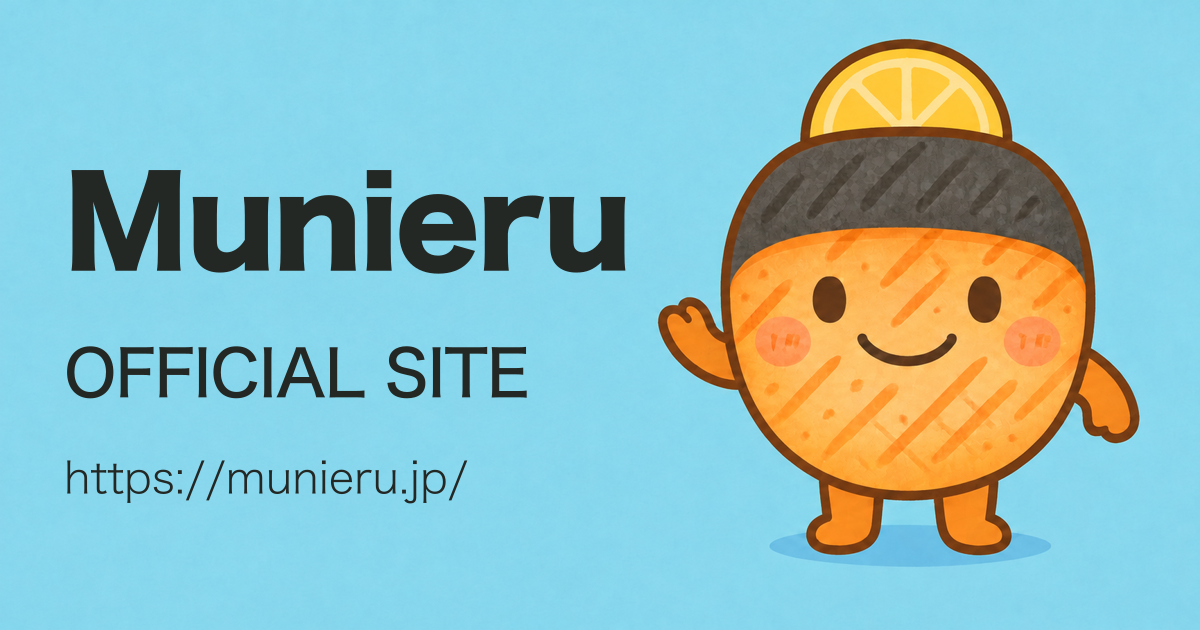
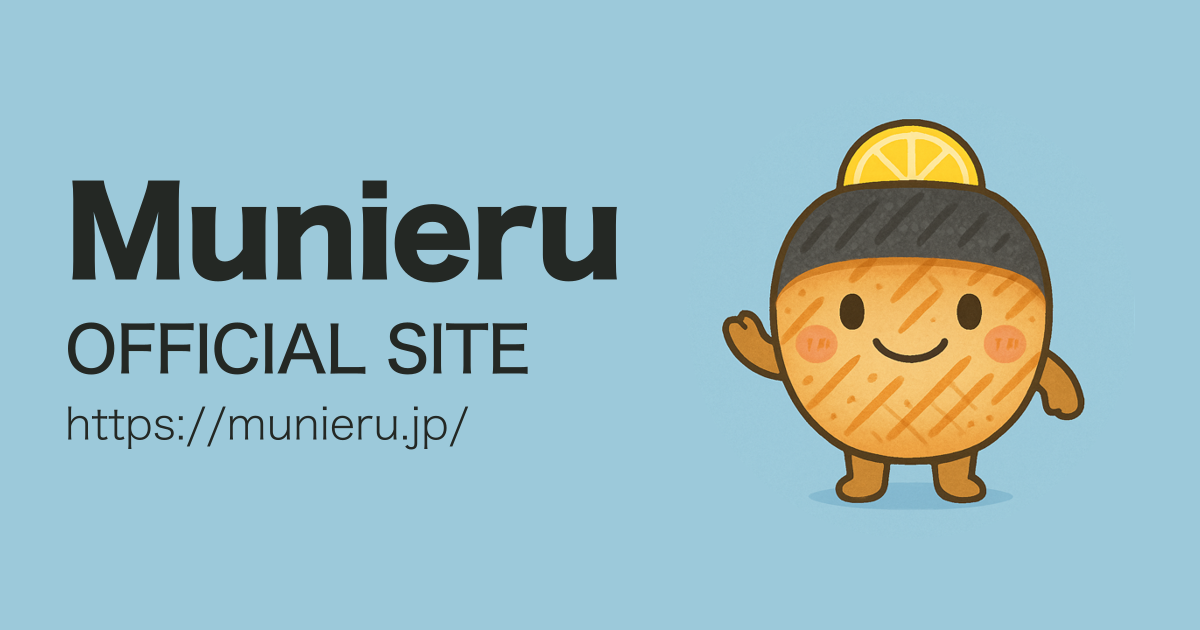
OGPを単色背景と共通プロフィール画像から生成

diff --git a/scripts/generate-ogp.ts b/scripts/generate-ogp.ts
@@ -1,5 +1,5 @@
 /**
- * macOSのヒラギノで日英のOGP画像を生成する。ビルド時には実行しない。
+ * 単色背景・共通プロフィール画像・macOSのヒラギノで日英のOGPを生成する。ビルド時には実行しない。
  */
 import { access, mkdir, writeFile } from 'node:fs/promises'
 import { fileURLToPath } from 'node:url'
@@ -40,45 +40,84 @@ const images = [
 ]
 const width = 1200
 const height = 630
-const background = await loadImage(fileURLToPath(new URL('design/ogp/background.png', root)))
+/** ベース画像を持たず、背景・文字・画像の間隔は生成時に組み立てる。 */
+const design = {
+  background: '#9CC9DA',
+  foreground: '#242824',
+  margin: 64,
+  gap: 64,
+  portraitSize: 448,
+  lineGaps: [40, 32]
+} as const
+/** サイトのプロフィールと同じ元画像を使用し、キャラクターの差し替えを一箇所で済ませる。 */
+const portrait = await loadImage(fileURLToPath(new URL('public/profile.png', root)))
+
+/** 計測済みの一行。文字領域の実寸を、配置と描画で共有する。 */
+interface TextLine {
+  text: string
+  font: string
+  spacing: number
+  width: number
+  height: number
+  ascent: number
+}
 
 /**
- * 指定位置へ一行の文字を描き、左側の領域に収まるまでサイズを調整する。
- * @param context - 背景を描画済みの2Dコンテキスト。
- * @param text - 描画する文字列。
- * @param top - 画像上端からの位置（px）。
+ * 指定した太さの実フォントで計測し、画像と余白を除いた幅に収まるまで文字サイズを調整する。
+ * @param context - 生成画像の2Dコンテキスト。
+ * @param text - 一行で表示する文字列。
  * @param size - 初期フォントサイズ（px）。
- * @param weight - 登録したヒラギノの太さ（W3・W6・W9）。
- * @param spacing - 字間（px）。省略時は0。
- * @throws 24pxまで縮小しても幅570pxに収まらない場合。
+ * @param weight - 登録したヒラギノの太さ。
+ * @param spacing - 書記素間の字間（px）。
+ * @returns 描画と中央揃えに使用する文字領域。
  */
-function drawText (context: CanvasRenderingContext2D, text: string, top: number, size: number, weight: keyof typeof fontFamilies, spacing = 0): void {
+function measureLine (context: CanvasRenderingContext2D, text: string, size: number, weight: keyof typeof fontFamilies, spacing = 0): TextLine {
   const segments = [...segmenter.segment(text)]
-  /** node-canvasにはletterSpacingがないため、書体の送り幅に字間を加える。 */
-  const measureWidth = (): number => context.measureText(text).width + Math.max(0, segments.length - 1) * spacing
-  // 長い名前も左側の領域に収まるまで縮める。横方向への変形はしない。
-  do {
-    context.font = `${size}px "${fontFamilies[weight]}"`
-    if (measureWidth() <= 570) break
+  const available = width - design.margin * 2 - design.gap - design.portraitSize
+  while (size >= 24) {
+    const font = `${size}px "${fontFamilies[weight]}"`
+    context.font = font
+    const metrics = context.measureText(text)
+    const lineWidth = metrics.width + Math.max(0, segments.length - 1) * spacing
+    if (lineWidth <= available) {
+      return {
+        text,
+        font,
+        spacing,
+        width: lineWidth,
+        height: metrics.actualBoundingBoxAscent + metrics.actualBoundingBoxDescent,
+        ascent: metrics.actualBoundingBoxAscent
+      }
+    }
     size -= 1
-  } while (size >= 24)
-  if (measureWidth() > 570) {
-    throw new Error(`文字が左側の領域に収まりません: ${text}`)
   }
-  if (spacing === 0) {
-    context.fillText(text, 64, top)
+  throw new Error(`文字が画像と並べられる幅に収まりません: ${text}`)
+}
+
+/**
+ * 計測した文字領域の上端に合わせて一行を描画する。
+ * @param context - 描画先。
+ * @param line - 使用する書体と計測結果。
+ * @param left - 行の左位置（px）。
+ * @param top - 文字領域の上位置（px）。
+ */
+function drawLine (context: CanvasRenderingContext2D, line: TextLine, left: number, top: number): void {
+  context.font = line.font
+  const baseline = top + line.ascent
+  if (line.spacing === 0) {
+    context.fillText(line.text, left, baseline)
     return
   }
-  for (const [position, { segment, index }] of segments.entries()) {
-    // 直前までの文字列も測定し、単純な1文字幅の加算で失われるカーニングを反映する。
-    const end = context.measureText(text.slice(0, index + segment.length)).width
-    const x = 64 + end - context.measureText(segment).width + position * spacing
-    context.fillText(segment, x, top)
+  for (const [position, { segment, index }] of [...segmenter.segment(line.text)].entries()) {
+    // 直前までの文字列も測定し、書記素とカーニングを保って字間を加える。
+    const end = context.measureText(line.text.slice(0, index + segment.length)).width
+    const x = left + end - context.measureText(segment).width + position * line.spacing
+    context.fillText(segment, x, baseline)
   }
 }
 
 for (const { site, imagePath } of images) {
-  // サイト名を主名義と残りの部分に分け、既存の2行の組版を維持する。
+  // サイト名を主名義と残りの部分に分け、名前とOFFICIAL SITEの2行に分ける。
   // 定義が変わっても、画像用の名前やサイト名を別途編集する必要はない。
   if (!site.title.startsWith(site.name + ' ')) {
     throw new Error(`OGPの2行表示には、主名義に続くサイト名が必要です: ${site.title}`)
@@ -93,12 +132,36 @@ for (const { site, imagePath } of images) {
   context.imageSmoothingEnabled = true
   context.quality = 'best'
   context.patternQuality = 'best'
-  context.drawImage(background, 0, 0, width, height)
-  context.fillStyle = '#242824'
-  context.textBaseline = 'top'
-  drawText(context, site.name, 160, 128, 9, -2)
-  drawText(context, subtitle, 340, 64, 6, -1)
-  drawText(context, displayUrl, 455, 44, 3)
+  context.fillStyle = design.background
+  context.fillRect(0, 0, width, height)
+  context.fillStyle = design.foreground
+  context.textBaseline = 'alphabetic'
+  const lines = [
+    measureLine(context, site.name, 128, 9, -2),
+    measureLine(context, subtitle, 64, 6, -1),
+    measureLine(context, displayUrl, 44, 3)
+  ]
+  const textWidth = Math.max(...lines.map(line => line.width))
+  const textHeight = lines.reduce((total, line) => total + line.height, 0) + design.lineGaps.reduce((total, gap) => total + gap, 0)
+  if (textHeight > height - design.margin * 2) throw new Error('文字の高さが画像の余白に収まりません')
+  // 文字とプロフィール画像を一つのまとまりとして中央に置く。各行は左揃えを維持する。
+  const left = (width - textWidth - design.gap - design.portraitSize) / 2
+  let top = (height - textHeight) / 2
+  for (const [index, line] of lines.entries()) {
+    drawLine(context, line, left, top)
+    top += line.height + (design.lineGaps[index] ?? 0)
+  }
+  const portraitX = left + textWidth + design.gap
+  const portraitY = (height - design.portraitSize) / 2
+  // サイトと同じ円形表示。元画像は加工せず、中央を正方形で切り出して描画する。
+  context.save()
+  context.beginPath()
+  context.arc(portraitX + design.portraitSize / 2, height / 2, design.portraitSize / 2, 0, Math.PI * 2)
+  context.clip()
+  const sourceSize = Math.min(portrait.width, portrait.height)
+  context.drawImage(portrait, (portrait.width - sourceSize) / 2, (portrait.height - sourceSize) / 2, sourceSize, sourceSize,
+    portraitX, portraitY, design.portraitSize, design.portraitSize)
+  context.restore()
   await mkdir(new URL('./', output), { recursive: true })
   const png = canvas.toBuffer('image/png')
   await writeFile(output, png)

diff --git a/design/ogp/README.md b/design/ogp/README.md
@@ -1,15 +1,15 @@
 # OGP画像の生成
 
-背景・キャラクターと文字を分離し、実際のフォントで組版してPNGへ書き出します。
+単色の背景に、サイトと共通のプロフィール画像と実際のフォントによる文字を配置し、PNGへ書き出します。プロフィール画像を描き込んだベース画像は使いません。
 
-- 文字なし背景: `background.png`（image_genで従来のOGPから文字を除去した素材）
-- 書き出しスクリプト: `../../scripts/generate-ogp.ts`
+- プロフィール画像: `../../public/profile.png`（サイトと共通。生成時に円形で配置）
+- 背景色・配置: `../../scripts/generate-ogp.ts`の`design`
 - 日本語版: `../../public/ogp.png`（ムニエル OFFICIAL SITE / https://munieru.jp/）
 - 英語版: `../../public/en/ogp.png`（Munieru OFFICIAL SITE / https://munieru.jp/）
 
 ## 再生成
 
-macOSのヒラギノ角ゴシックと、このリポジトリで指定したNode.jsが必要です。依存パッケージをインストールした後、リポジトリのルートで実行します。配布済みのネイティブバイナリを利用する場合、SwiftやXcode Command Line Toolsは不要です。
+macOSのヒラギノ角ゴシックと、このリポジトリで指定したNode.jsが必要です。依存パッケージをインストールした後、リポジトリのルートで実行します。SwiftやXcode Command Line Toolsは不要です。
 
 `.npmrc`でインストールスクリプトを無効にしているため、初回と`npm ci`で依存関係を入れ直した後は、OGPを生成する前に`canvas`のバイナリを明示的に準備してください。バイナリの取得にはネットワーク接続が必要です。
 
@@ -18,15 +18,25 @@ npm rebuild canvas --ignore-scripts=false
 npm run generate:ogp
 ```
 
-Automatticの`canvas`（node-canvas）を使います。名前はヒラギノ角ゴシックW9、OFFICIAL SITEはW6、URLはW3のフォントファイルを直接登録し、描画エンジンによるCSSウェイトの解釈の違いを避けます。文字色は`#242824`、出力は1200×630pxのPNGです。macOS以外や必要な書体が見つからない環境では、代替フォントを使わず停止します。フォントファイル自体はリポジトリへ含めません。
+Automatticの`canvas`（node-canvas）を使います。名前はヒラギノ角ゴシックW9、OFFICIAL SITEはW6、URLはW3のフォントファイルを直接登録します。macOS以外や必要な書体がない環境では、代替フォントを使わず停止します。フォントファイル自体は配布しません。
 
-`canvas`には`letterSpacing`がないため、文字列を書記素単位に分け、送り幅とカーニングを測定して字間を加えます。結合文字やサロゲートペアの途中では分割しません。
+## 配置と共通定義
 
-名前・サイト名は`../../i18n/locales/ja.json`・`en.json`の`site.name`・`site.title`を、表示URLと出力先は`../../scripts/config.ts`の公開設定を参照します。サイト名を主名義とその後ろの文字列へ分け、既存の2行の組版を維持します。`site.title`は`site.name`に半角スペースを続けて始める形式にします。URLはプロトコルと末尾のスラッシュを含め、`https://munieru.jp/`の形式で表示します。
+- 出力は1200×630pxのPNG。背景色は`#9CC9DA`、文字色は`#242824`です。
+- 名前・サイト名は`../../i18n/locales/ja.json`・`en.json`の`site.name`・`site.title`、表示URLと出力先は`../../scripts/config.ts`から読み込みます。URLはプロトコルと末尾のスラッシュを含めて表示します。
+- サイト名は名前とその後ろの部分に分けます。`site.title`は`site.name`に半角スペースを続けて始める形式にします。
+- 文字の幅・高さを実フォントで測り、名前・OFFICIAL SITE・URLを左揃えで縦に並べます。文字群と448pxのプロフィール画像を64px空け、まとまり全体を中央に配置します。文字群と画像は、それぞれ縦方向にも中央揃えします。
+- 長い名前は、画像と外周64pxの余白を確保できる幅に収まるまで縮小します。画像の水平位置も文字幅に応じて変わるため、日本語・英語を別々に手作業で調整する必要はありません。
+- `canvas`には`letterSpacing`がないため、文字列を書記素単位で扱い、送り幅とカーニングを測定して字間を加えます。結合文字やサロゲートペアの途中では分割しません。
+- プロフィール画像は元ファイルを加工せず、中央の正方形を円形にクリップして描画します。背景画像やキャラクターの別素材は不要です。
 
-文字を変更する場合は共通の定義を編集してから再生成してください。配置・太さはスクリプトで編集します。文字の変更にAIでの画像生成は不要です。背景を変更する場合だけ素材を更新します。ビルドやCIは生成済みPNGを配信するため、macOSやフォントのインストールは不要です。
+文字・プロフィール画像はサイトと共通の定義を更新して再生成します。色・寸法・余白はスクリプトで変更します。ビルドとCIは生成済みPNGを配信するため、macOSやフォントは不要です。
 
-従来の文字入り生成画像`blue-charcoal.png`・`blue-charcoal-en.png`は、文字なし背景とスクリプトに置き換えました。
+従来のキャラクター合成済み背景`background.png`は不要になったため削除しました。
+
+## 過去の生成方式の比較記録
+
+以下は、キャラクターを描き込んだ背景画像を使っていた当時の記録です。現在の単色背景・プロフィール画像を配置する方式の比較値ではありません。
 
 ## node-canvasへの移行時の比較
 
@@ -55,9 +65,3 @@ Automatticの`canvas`（node-canvas）を使います。名前はヒラギノ角
 | RGB各成分の二乗平均平方根誤差（0〜255） | 3.8510 | 5.1311 |
 
 文字領域は左半分の各行でRGBが`R < 65, G < 70, B < 65`のピクセルを囲む矩形として比較しています。画像全体の誤差は、PNGをRGBへデコードして比較した値です。ファイルの圧縮方式の違いは、この値に影響しません。
-
-## 背景作成時の指示
-
-```text
-Edit this existing OGP banner to produce a reusable TEXT-FREE BACKGROUND PLATE. Remove ALL lettering on the left: the Japanese name ムニエル, OFFICIAL SITE, and munieru.jp. Fill only the removed letter areas seamlessly with the same sky-blue softly textured background. Keep the entire fish character with lemon on the right, including every outline, color, texture, size, placement, wave, expression, feet, lemon, and ground shadow exactly as in the supplied image. Keep the same wide landscape composition and full-bleed background. Do not move or redesign the character. Do not add ANY text, glyphs, logo, decoration or watermark. The left half must be clean empty blue background suitable for later deterministic typesetting. Preserve the image's 1200:630 aspect ratio.
-```
